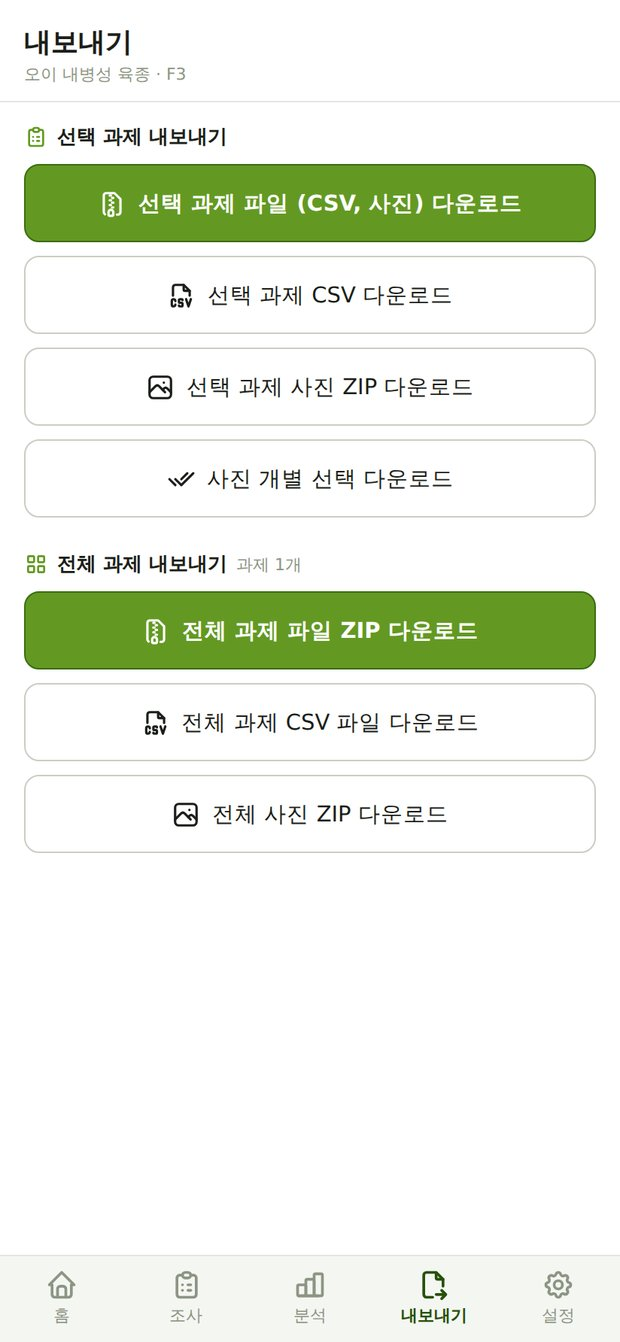
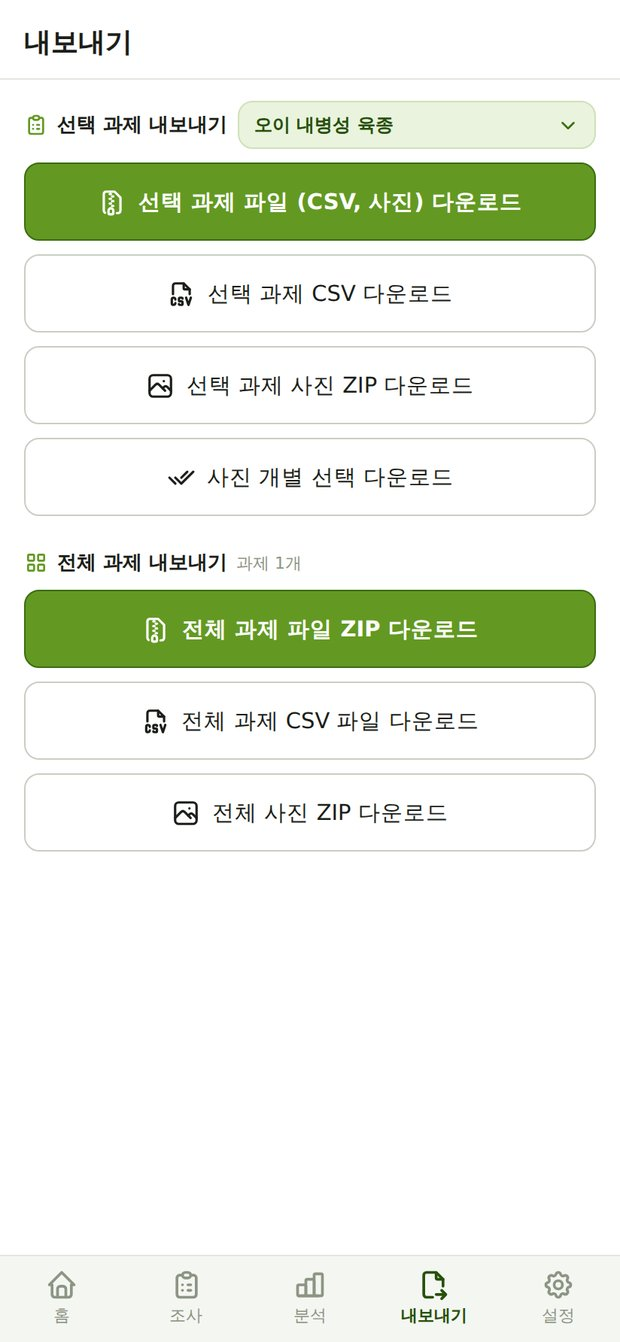
Add files via upload

diff --git a/app.js b/app.js
@@ -3488,6 +3488,39 @@
     };
   }
 
+  // 내보낼 과제 고르기 — 조사 화면으로 넘어가지 않고 현재 과제만 바꾼다
+  function pickProjectPopup(after) {
+    cleanFolders();
+    var all = projects(), cur = curProjKey();
+    if (all.length <= 1) { toast('과제가 하나뿐입니다'); return; }
+    var rows = all.map(function (p) {
+      var f = folderOf(p.id), on = (p.id === cur);
+      return '<button class="btn ppRow" data-p="' + esc(p.id) + '" style="width:100%;text-align:left;padding:11px 12px;margin-top:7px;background:var(--surface-2);display:flex;align-items:center;gap:9px' + (on ? ';border-color:#639922;background:#EAF3DE' : '') + '">' +
+        '<div style="width:4px;height:30px;border-radius:2px;background:' + (p.color || '#639922') + ';flex:0 0 auto"></div>' +
+        '<div style="flex:1;min-width:0"><div style="font-size:13px;font-weight:600' + (on ? ';color:#27500A' : '') + '">' + esc(p.name) + '</div>' +
+        '<div style="font-size:11px;color:var(--text-muted);margin-top:1px">' + (f ? esc(f.name) + ' · ' : '') + '세대 ' + p.items.length + ' · 라벨번호 ' + p.lines + '</div></div>' +
+        (on ? ico('check', '#3B6D11', 17) : '') + '</button>';
+    }).join('');
+    var o = openOverlay(
+      '<div class="ovl-title">' + ico('clipboard-list', '#3B6D11', 18) + ' 과제 고르기</div>' +
+      '<div style="max-height:52vh;overflow:auto;margin-top:4px">' + rows + '</div>' +
+      '<div class="ovl-btns"><button class="btn" id="ppCancel">취소</button></div>'
+    );
+    $('ppCancel').onclick = closeOverlay;
+    o.querySelectorAll('.ppRow').forEach(function (b) {
+      b.onclick = function () {
+        var p = projectOf(b.getAttribute('data-p'));
+        closeOverlay();
+        if (!p || !p.items.length) return;
+        S.genIdx = p.items[0].idx; S.lineIdx = 0; S.indiv = 1;
+        var g = curGen();
+        S.date = (g.surveyDates && g.surveyDates[g.surveyDates.length - 1]) || todayStr();
+        S.trait = (g.traits && g.traits[0]) ? g.traits[0].id : null;
+        loadVals().then(function () { if (after) after(); toast('과제 · ' + p.name); });
+      };
+    });
+  }
+
   // ---------- EXPORT ----------
   function renderExport() {
     var g = curGen(), v = $('view-export');
@@ -3498,10 +3531,14 @@
         ico(icon, primary ? '#fff' : 'var(--text-primary)', 19) + ' ' + text + '</button>';
     }
     v.innerHTML =
-      '<div style="padding:16px 16px 10px;border-bottom:0.5px solid var(--border)"><div style="font-size:18px;font-weight:700">내보내기</div>' +
-        '<div style="font-size:11px;color:var(--text-muted);margin-top:2px">' + (fold ? esc(fold.name) + ' · ' : '') + esc(g.projName) + ' · ' + esc(g.label) + '</div></div>' +
+      '<div style="padding:16px 16px 12px;border-bottom:0.5px solid var(--border)"><div style="font-size:18px;font-weight:700">내보내기</div></div>' +
       '<div style="padding:14px 16px 24px">' +
-        '<div style="font-size:13px;font-weight:600;display:flex;align-items:center;gap:6px">' + ico('clipboard-list', '#639922', 16) + ' 선택 과제 내보내기</div>' +
+        '<div style="display:flex;align-items:center;gap:7px;flex-wrap:wrap">' +
+          '<span style="font-size:13px;font-weight:600;display:inline-flex;align-items:center;gap:6px;flex:0 0 auto">' + ico('clipboard-list', '#639922', 16) + ' 선택 과제 내보내기</span>' +
+          '<button class="btn" id="ePickProj" style="flex:1;min-width:0;height:32px;padding:0 10px;font-size:12px;display:flex;align-items:center;gap:5px;background:#EAF3DE;border-color:#CFE0BA;color:#27500A;font-weight:600">' +
+            '<span style="flex:1;min-width:0;overflow:hidden;text-overflow:ellipsis;white-space:nowrap;text-align:left">' + (fold ? esc(fold.name) + ' · ' : '') + esc(g.projName) + '</span>' +
+            ico('chevron-down', '#3B6D11', 15) + '</button>' +
+        '</div>' +
         btn('eProjAll', 'file-zip', '선택 과제 파일 (CSV, 사진) 다운로드', true) +
         btn('eCsv', 'file-type-csv', '선택 과제 CSV 다운로드') +
         btn('eZip', 'photo', '선택 과제 사진 ZIP 다운로드') +
@@ -3512,6 +3549,7 @@
         btn('eAllCsv', 'file-type-csv', '전체 과제 CSV 파일 다운로드') +
         btn('eAllPhoto', 'photo', '전체 사진 ZIP 다운로드') +
       '</div>';
+    $('ePickProj').onclick = function () { pickProjectPopup(function () { renderExport(); }); };
     $('eProjAll').onclick = function () { exportProjBundle(); };
     $('eCsv').onclick = function () { exportCSV(); };
     $('eZip').onclick = function () { exportPhotoZip(false); };
@@ -3651,7 +3689,7 @@
       '<div style="padding:16px 14px 26px">' +
 
       /* ===== 1. 백업 ===== */
-      sect('device-floppy', '백업', '조사 자료를 기기와 사무실로 남깁니다') +
+      sect('device-floppy', '백업') +
       card(
         '<div style="font-size:13px;font-weight:600">기기 백업 폴더</div>' +
         '<div style="font-size:11px;color:var(--text-muted);margin-top:2px" id="sBkDirNow">확인 중…</div>' +
@@ -3695,7 +3733,10 @@
         '<div style="font-size:11px;color:var(--text-muted);margin-top:10px">미동기화 <b data-pending>' + S.pending + '</b>건 · 마지막 동기화 ' + (S.lastSync ? tm(S.lastSync) : '없음') + ' · 기기 ID ' + esc(st.deviceId) + '</div>'
       ) +
       card(
-        '<div style="font-size:13px;font-weight:600;margin-bottom:8px">' + ico('info-circle', '#639922', 14) + ' 동기화 방법</div>' +
+        '<div id="sHelpHead" style="display:flex;align-items:center;gap:6px;cursor:pointer">' + ico('info-circle', '#639922', 14) +
+          '<span style="font-size:13px;font-weight:600;flex:1">동기화 방법</span>' +
+          ico(S.setHelpOpen ? 'chevron-down' : 'chevron-right', 'var(--text-muted)', 16) + '</div>' +
+        (!S.setHelpOpen ? '' : '<div style="margin-top:10px">' +
         (prov === 'gas' ?
         ('<div style="font-size:12px;color:var(--text-secondary);line-height:1.85">' +
           '동기화하면 구글 <b>드라이브</b>의 <b>CropMemo / 모음 폴더명 / 과제명</b>(과제 모음에 묶인 경우) 또는 <b>CropMemo / 과제명</b> 폴더에 CSV와 사진·그림이 저장되고, 조사값은 시트에도 쌓입니다.<br><br>' +
@@ -3715,7 +3756,7 @@
           '<b>4.</b> 등록 후 <b>API 사용 권한 → Microsoft Graph → 위임된 권한</b>에서 <b>Files.ReadWrite</b>, <b>offline_access</b>를 추가합니다.<br>' +
           '<b>5.</b> 개요 화면의 <b>애플리케이션(클라이언트) ID</b>를 복사해 위 칸에 붙여넣고 <b>OneDrive 연결</b>을 누릅니다.' +
           '<br><br><span style="color:#8A5A12">앱 등록은 팀에서 <b>한 번만</b> 하면 되고, 팀원은 각자 로그인해 자기 OneDrive에 저장합니다.</span>' +
-        '</div>')) ) +
+        '</div>')) + '</div>') ) +
 
       /* ===== 2. 기기 설정 ===== */
       '<div style="height:8px"></div>' +
@@ -3776,6 +3817,8 @@
       }).catch(function () {});
     }
     $('sHaptic').onclick = function () { st.haptic = (st.haptic === false); this.classList.toggle('on', st.haptic !== false); kvSet('settings', st); if (st.haptic !== false) haptic(25); };
+    if ($('sGuide')) $('sGuide').onclick = function () { openGuide(); };
+    if ($('sHelpHead')) $('sHelpHead').onclick = function () { S.setHelpOpen = !S.setHelpOpen; renderSettings(); };
     // 기기 백업 폴더 — 지금 기억하고 있는 폴더 보여주기
     (async function () {
       var el = $('sBkDirNow'); if (!el) return;
@@ -3821,11 +3864,11 @@
     cMap:     { x: 78.4, y: 0.9,  w: 18.7, h: 3.3 },
     cQuick:   { x: 1.5,  y: 58.1, w: 97,   h: 5.4 },
     cMapWrap: { x: 3.4,  y: 8.8,  w: 93.2, h: 30.8 },
-    eProjAll: { x: 3.9,  y: 12.2, w: 92.2, h: 5.8 },
+    eProjAll: { x: 3.9,  y: 12.1, w: 92.2, h: 5.8 },
     eAllZip:  { x: 3.9,  y: 44.1, w: 92.2, h: 5.8 },
-    sBkDir:   { x: 6.3,  y: 19.9, w: 87.4, h: 5.8 },
-    sUrl:     { x: 6.3,  y: 50.4, w: 87.4, h: 5.5 },
-    sSyncQ:   { x: 6.3,  y: 63.6, w: 87.4, h: 7.1 }
+    sBkDir:   { x: 6.3,  y: 18.0, w: 87.4, h: 5.8 },
+    sUrl:     { x: 6.3,  y: 48.5, w: 87.4, h: 5.5 },
+    sSyncQ:   { x: 6.3,  y: 61.6, w: 87.4, h: 7.1 }
   };
   function gc(key, n, side, label) { var b = GBOX[key]; return { x: b.x, y: b.y, w: b.w, h: b.h, n: n, side: side || 'left', label: label || '' }; }
 

diff --git a/README.md b/README.md
@@ -88,6 +88,7 @@ python3 -m http.server 8000
 | — | 모든 로컬 데이터 삭제 (초기화) |
 
 - **공유 토큰** 칸은 OneDrive를 골랐을 때만 나옵니다(구글 드라이브에서는 숨김).
+- **동기화 방법** 안내는 접혀 있고, 제목을 누르면 펼쳐집니다.
 - 사진 화질은 **두 곳**에 있고 서로 다릅니다.
   - **야장 저장 사진 화질**(기기 설정) — 촬영한 사진을 기기에 저장할 때의 화질
   - **동기화 전송 사진 화질**(백업) — 동기화로 **보낼 때만** 줄여 보냅니다. 기기에 저장된 사진은 그대로이고, 기기 백업에도 영향이 없습니다. 모바일 데이터로 보낼 때 `저화질`을 고르면 전송량이 크게 줄어듭니다(예: 904KB → 531KB).
@@ -192,6 +193,8 @@ CropMemo/
 
 ## 8) 내보내기
 **선택 과제**와 **전체 과제**로 나뉘어 있습니다. 저장 위치는 브라우저의 다운로드 폴더이고, 폴더 구조는 기기 백업과 동일합니다(`CropMemo / [모음 폴더명 /] 과제명 /`).
+
+화면 위쪽 **선택 과제 내보내기** 오른쪽의 **과제명 칩**을 누르면 내보낼 과제를 바꿀 수 있습니다(조사 화면으로 넘어가지 않습니다).
 
 | 구분 | 버튼 | 내용 |
 | --- | --- | --- |
